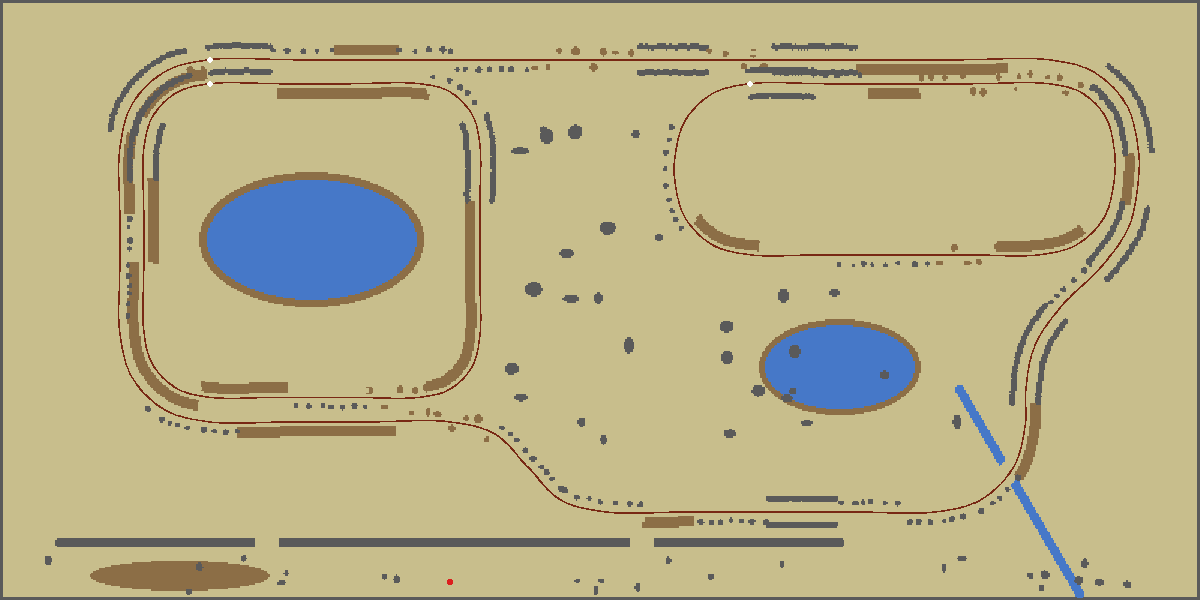
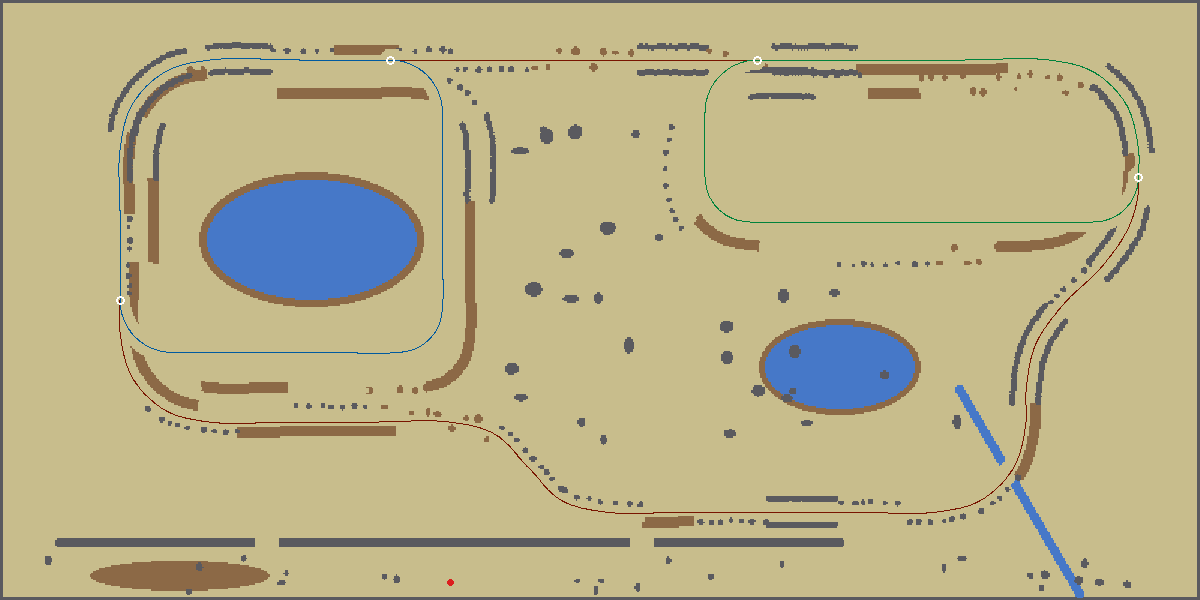
Draw shared track once with switch stands, label trains with their loop, and document junctions
Also tags the version 0.2.0-junctions for the preview, and keeps the old
big-country layout image as big-country-parallel.

Claude-Session: https://claude.ai/code/session_01PmMfJptCmTryAu57H8T567

diff --git a/packages/sim/src/world/junctions.ts b/packages/sim/src/world/junctions.ts
@@ -7,8 +7,7 @@
 import { nextInt } from '../rng';
 import type { GameState, SimConfig, TrainState } from '../types';
 import { expandCars, trainLength } from './cars';
-import type { RouteLeg, SimRoute, WorldMap } from './map';
-import { wrapDistance } from './track';
+import { wrapDistance, type RouteLeg, type SimRoute } from './track';
 
 /** A train picks its branch this far before the junction, with every car still on the shared segment. */
 export const DECIDE_BEFORE_TILES = 1;
@@ -90,9 +89,8 @@ interface Option { route: SimRoute; d: number; clearance: number }
  * Tick system 2, after trains move: a train that just reached its pick point before a split
  * moves onto a service through one of the branches, drawn from `schedule`.
  */
-export function junctionSystem(state: GameState, map: WorldMap, config: SimConfig, prevD: ReadonlyMap<string, number>): void {
-  const net = map.network;
-  if (!net) return;
+export function junctionSystem(state: GameState, routes: ReadonlyMap<string, SimRoute>, net: Network, config: SimConfig, prevD: ReadonlyMap<string, number>): void {
+  const map = { routes };
   const lengthOf = (t: TrainState) => trainLength(expandCars(config.values.trains[t.type]!.cars));
   const speedOf = (t: TrainState) => config.values.trains[t.type]!.speedTilesPerTick;
   for (const t of state.world.trains) {
@@ -135,7 +133,7 @@ export function junctionSystem(state: GameState, map: WorldMap, config: SimConfi
  * every other train committed to reach it: negative means they would come within the gap.
  */
 function clearance(
-  state: GameState, map: WorldMap, net: Network, t: TrainState, route: SimRoute, d: number,
+  state: GameState, map: { routes: ReadonlyMap<string, SimRoute> }, net: Network, t: TrainState, route: SimRoute, d: number,
   lengthOf: (t: TrainState) => number, speedOf: (t: TrainState) => number,
 ): number {
   const m = nextMerge(net, route, d);

diff --git a/packages/sim/src/world/map.ts b/packages/sim/src/world/map.ts
@@ -1,17 +1,8 @@
 // The parts of a built map the sim reads, as structural types: `@train-robber/config`'s
 // MapDef satisfies SimMap, so the sim does not depend on the config package.
 import { hashState } from '../hash';
-import type { TrackRoute } from './track';
+import type { SimRoute } from './track';
 import { buildNetwork, type Network } from './junctions';
-
-/** One stretch of a service: segment `segment` from distance `start`, junction `from` to junction `to`. */
-export interface RouteLeg { segment: string; start: number; length: number; from: string; to: string }
-
-export interface SimRoute extends TrackRoute {
-  id: string;
-  /** Set on services built from shared segments; a train may switch services at a junction. */
-  legs?: readonly RouteLeg[];
-}
 
 export interface SimMap {
   id: string;

diff --git a/packages/sim/src/world/track.ts b/packages/sim/src/world/track.ts
@@ -18,6 +18,15 @@ export interface TrackRoute {
   samples: { x: readonly number[]; y: readonly number[]; s: readonly number[]; tx: readonly number[]; ty: readonly number[] };
 }
 
+/** One stretch of a service: segment `segment` from distance `start`, junction `from` to junction `to`. */
+export interface RouteLeg { segment: string; start: number; length: number; from: string; to: string }
+
+export interface SimRoute extends TrackRoute {
+  id: string;
+  /** Set on services built from shared segments; a train may switch services at a junction. */
+  legs?: readonly RouteLeg[];
+}
+
 export interface TrackPoint {
   /** Distance along the route after wrapping (closed) or clamping (open), in [0, length). */
   d: number;

diff --git a/packages/sim/src/world/trains.ts b/packages/sim/src/world/trains.ts
@@ -61,7 +61,7 @@ export function advanceTrains(state: GameState, map: WorldMap, config: SimConfig
     before?.set(t.id, t.d);
     t.d = wrapDistance(route, t.d + def.speedTilesPerTick);
   }
-  if (before) junctionSystem(state, map, config, before);
+  if (before && map.network) junctionSystem(state, map.routes, map.network, config, before);
 }
 
 /** Every car of every train, placed for the current state, in train then car order. */

diff --git a/docs/technical-design.md b/docs/technical-design.md
@@ -428,6 +428,13 @@ Tiled is only an editor. You draw, save a `.tmj` file, and the converter writes 
 - `speedScale` is greater than 0 and at most 1.
 - Warning: the curve's radius is smaller than the longest car. Cars are rigid rectangles along the track, so a very tight bend would make them cut corners.
 
+**Junctions (segments and services).** Track that two loops share is drawn once, as segments, and each loop is a service that lists them. A map can mix this with ordinary routes.
+
+- On `track`, draw each segment as an open polyline with a string property `segment` (its id). Ends that should join go within half a tile of each other; every place where segment ends meet is a junction. Draw the first and last points of each branch roughly in line with the track it joins (within 25 degrees).
+- Add an object layer `services` with one point object per service: `route` (its id), `path` (segment ids in order, for example `main-north west-cut`), and optionally `trains`, `trainType` and `trainOffset` (tiles from the start of the path for the first train).
+- The build gives each junction one tangent (the trunk's direction where one track splits into two or two join), bakes each segment once along it, and joins each service's segments into a closed route with `legs` (segment, start, length, from and to junction). Errors name the segment or junction: a path that doesn't join up or close, an unknown or unused segment, an end that meets nothing, or a branch too far off its junction's direction.
+- In the sim a train always runs on one service. One tile before a split, with every car still on the shared segment, it picks a branch with a seeded draw from the `schedule` stream and moves onto a service through it, so its cars never jump and replays stay exact. It skips a branch that would bring it within 12 tiles of another train (`JUNCTION_GAP_TILES`) where that branch next rejoins shared track, falling back to the roomiest branch. There are no signals and every train keeps its speed (decided 2026-10-11; signals and speed changes come later).
+
 **Edit loop.** `npm run maps:watch` rebuilds every map when a `.tmj` or tileset in `maps-src` is saved, and the dev server (`npm run dev`) reloads the page. Loading `?map=alpha-flats` selects a map (the default); the game validates it with `MapDefSchema` and shows its id in the debug overlay. The map overlay (toggle with O, zoom with the mouse wheel) draws zones, speed zones, markers, route control points, the baked samples and a tangent tick every eighth sample, in the top-down debug view (V switches to it; the isometric view has its own copy of the overlay, off until O), so you can check what the converter produced against what you drew.
 
 **Notes**
